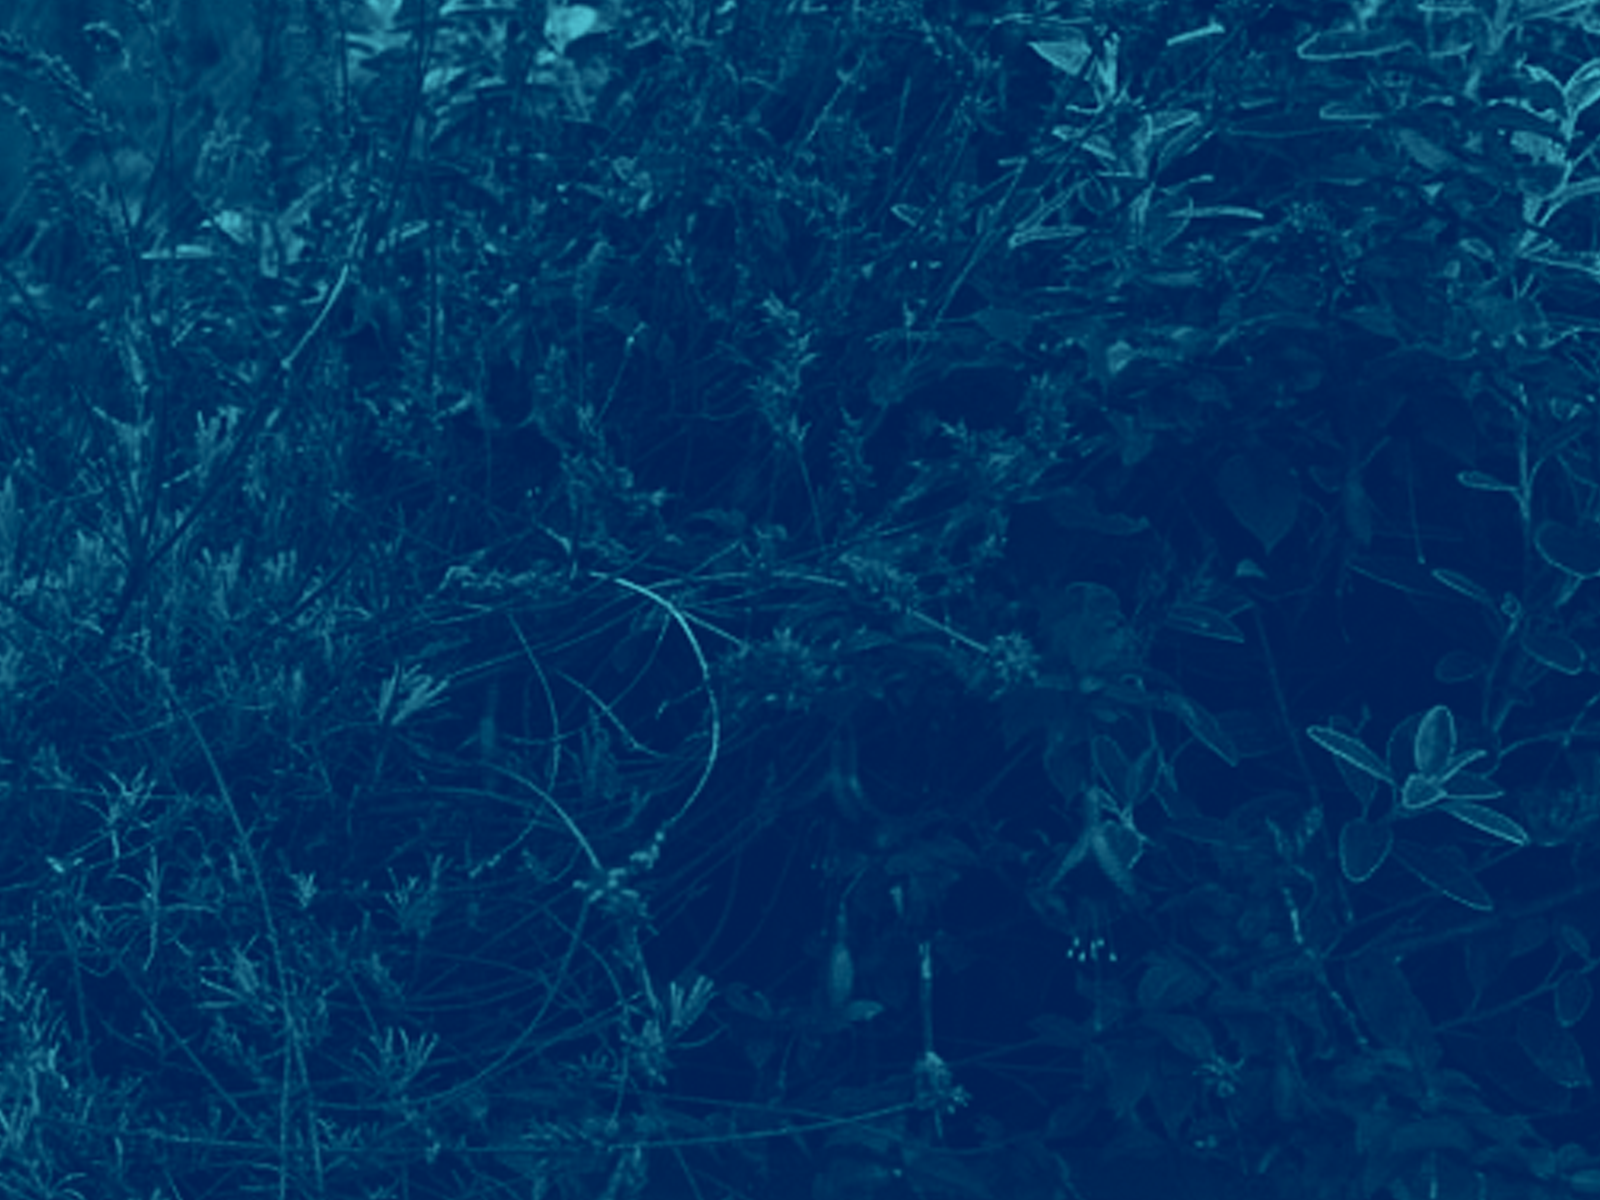
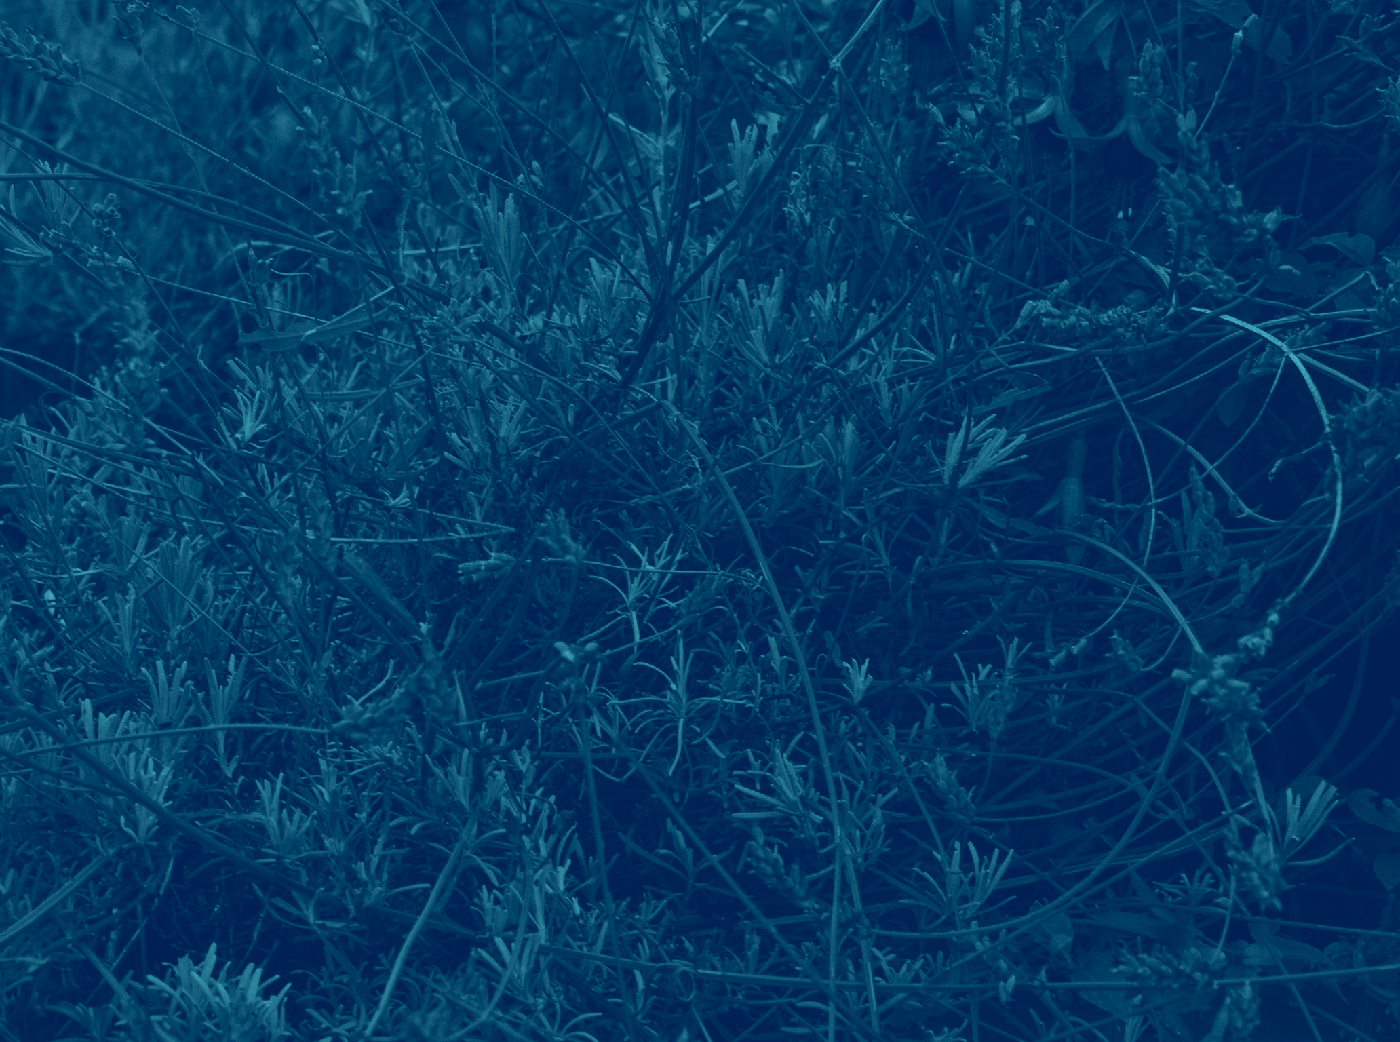
add - new background & MQ large background

diff --git a/build/css/main.min.css b/build/css/main.min.css
@@ -1,1 +1,1 @@
-a,abbr,acronym,address,applet,article,aside,audio,b,big,blockquote,body,canvas,caption,center,cite,code,dd,del,details,dfn,div,dl,dt,em,embed,fieldset,figcaption,figure,footer,form,h1,h2,h3,h4,h5,h6,header,hgroup,html,i,iframe,img,ins,kbd,label,legend,li,mark,menu,nav,object,ol,output,p,pre,q,ruby,s,samp,section,small,span,strike,strong,sub,summary,sup,table,tbody,td,tfoot,th,thead,time,tr,tt,u,ul,var,video{margin:0;padding:0;border:0;font-size:100%;vertical-align:baseline}article,aside,details,figcaption,figure,footer,header,hgroup,menu,nav,section{display:block}ol,ul{list-style:none}blockquote,q{quotes:none}blockquote:after,blockquote:before,q:after,q:before{content:'';content:none}table{border-collapse:collapse;border-spacing:0}.u-pointer:hover{cursor:pointer}@font-face{font-family:neue_droschke;src:url(fonts/neue_droschke-webfont.eot);src:url(fonts/neue_droschke-webfont.eot?#iefix) format('embedded-opentype'),url(fonts/neue_droschke-webfont.woff2) format('woff2'),url(fonts/neue_droschke-webfont.woff) format('woff'),url(fonts/neue_droschke-webfont.ttf) format('truetype'),url(fonts/neue_droschke-webfont.svg#neue_droschkehalbfett) format('svg');font-weight:400;font-style:normal}@font-face{font-family:geogrotesque-thin;src:url(fonts/geogrotesque-thin-webfont.eot);src:url(fonts/geogrotesque-thin-webfont.eot?#iefix) format('embedded-opentype'),url(fonts/geogrotesque-thin-webfont.woff2) format('woff2'),url(fonts/geogrotesque-thin-webfont.woff) format('woff'),url(fonts/geogrotesque-thin-webfont.ttf) format('truetype'),url(fonts/geogrotesque-thin-webfont.svg#neue_droschkehalbfett) format('svg');font-weight:400;font-style:normal}html{font-size:15px;line-height:1.4em;font-family:sans-serif;overflow-y:scroll}.font-neue{font-family:neue_droschke;letter-spacing:.06em}.font-geogrot{font-family:geogrotesque-thin}h1,h2,h3,h4,h5,h6{font-weight:400}h1{font-size:3.2em;line-height:1.2em}h2{font-size:2.2em;line-height:1.3em}.font-underline{border-bottom:5px solid #000;display:inline-block}.font-uppercase{text-transform:uppercase}h3{font-size:1.6em;line-height:1.4em}p{margin-bottom:1em}.font-align-left{text-align:left}.font-align-right{text-align:right}.font-align-center{text-align:center}a{color:inherit;text-decoration:none}.button-share{background-color:#7f8285;padding:3px 6px;display:inline-block;color:#fff}.container{max-width:1024px;margin:0 auto}.background{background-image:url(../img/UD_BG.png);background-position:center center;background-size:cover;color:#fff}#header{width:100%;height:100vh;position:relative;display:-webkit-box;display:-webkit-flex;display:-ms-flexbox;display:flex;-webkit-box-orient:vertical;-webkit-box-direction:normal;-webkit-flex-direction:column;-ms-flex-direction:column;flex-direction:column;-webkit-justify-content:space-around;-ms-flex-pack:distribute;justify-content:space-around;-webkit-box-align:center;-webkit-align-items:center;-ms-flex-align:center;align-items:center;margin-bottom:150px}#header:after{content:'\2B07';position:absolute;bottom:20px;width:100%;text-align:center;font-size:5em;line-height:1}#header .logo-audionetwork{max-width:200px;width:100%}#header-middle{max-width:80%;margin:0 auto;text-align:center}#logo-undiscovered-subheading{padding:.7em 1em;border:1px solid #fff;display:inline-block}#header-bottom{position:absolute;margin:0 20px;bottom:0;left:0;right:0;display:-webkit-box;display:-webkit-flex;display:-ms-flexbox;display:flex;-webkit-box-orient:horizontal;-webkit-box-direction:normal;-webkit-flex-direction:row;-ms-flex-direction:row;flex-direction:row;-webkit-flex-wrap:nowrap;-ms-flex-wrap:nowrap;flex-wrap:nowrap;-webkit-box-pack:justify;-webkit-justify-content:space-between;-ms-flex-pack:justify;justify-content:space-between;-webkit-box-align:center;-webkit-align-items:center;-ms-flex-align:center;align-items:center}#header-number{font-size:6em}#nav-main{display:-webkit-box;display:-webkit-flex;display:-ms-flexbox;display:flex;-webkit-box-pack:center;-webkit-justify-content:center;-ms-flex-pack:center;justify-content:center;width:100%;height:100px;position:fixed;top:0;background:rgba(255,255,255,.8);z-index:1;-webkit-transform:translateY(-100%);-ms-transform:translateY(-100%);transform:translateY(-100%);-webkit-transition:all 300ms;transition:all 300ms}#nav-main .logo-undiscovered{height:70px}#nav-main .logo-audionetwork{height:50px}#nav-main.show{-webkit-transform:translateY(0);-ms-transform:translateY(0);transform:translateY(0)}.nav-main-block{width:33.333%;box-sizing:border-box;padding:12.5px}#nav-main-social{width:160px;float:right}.mail-signup{box-sizing:border-box;padding:4px;border:2px solid #7f8285;margin-top:4px}#nav-scroll{z-index:999;position:fixed;right:20px;top:30%;font-size:1em}#nav-scroll li{padding:.5em 0;text-align:center}#nav-scroll li.scroll-arrow{font-size:.5em}#nav-scroll li.active{color:#fbc61f}.artist{display:-webkit-box;display:-webkit-flex;display:-ms-flexbox;display:flex;position:relative;box-sizing:border-box;padding:60px 0 80px}.artist:nth-child(even){-webkit-box-orient:horizontal;-webkit-box-direction:reverse;-webkit-flex-direction:row-reverse;-ms-flex-direction:row-reverse;flex-direction:row-reverse}.artist:nth-child(even) .artist-about{padding:0 108px 0 12px}.artist-picture{position:absolute;top:0;right:0;z-index:-1;max-width:100%}.artist:nth-child(even) .artist-picture{left:0}.artist-about,.artist-music{box-sizing:border-box}.artist-about{max-width:44.4%;padding:0 12px 0 108px}.artist-header{text-align:center;margin-bottom:2em}.artist-read-more{display:block;text-align:right;font-size:1.1em;text-decoration:underline}.artist-read-more::after{content:"\2192";margin-left:.5em;text-decoration:none}.artist-music{max-width:55.6%;padding:0 40px;display:-webkit-box;display:-webkit-flex;display:-ms-flexbox;display:flex;-webkit-flex-flow:column wrap;-ms-flex-flow:column wrap;flex-flow:column wrap;-webkit-box-pack:end;-webkit-justify-content:flex-end;-ms-flex-pack:end;justify-content:flex-end}.artist-quote{text-align:center}.artist-quote:before{content:'"';display:block;font-size:3.2em;line-height:.1em}.artist-quote:after{content:'"';display:block;font-size:3.2em;line-height:1.1em}.artist-song{background:#002d59;padding:15px 25px;display:-webkit-box;display:-webkit-flex;display:-ms-flexbox;display:flex;-webkit-flex-flow:row;-ms-flex-flow:row;flex-flow:row;-webkit-flex-wrap:nowrap;-ms-flex-wrap:nowrap;flex-wrap:nowrap}.artist-song audio{display:none}.artist-song.playing .player-control{background-position-y:100%}.artist-song.playing h4:before{display:none}.artist-song h4{color:#fff;font-size:2.5em;line-height:1.2;overflow:hidden;white-space:nowrap;position:relative;width:100%}.artist-song h4:before{display:block;background:#002d59;content:'Play Featured Track';position:absolute;top:0;left:0;width:100%;height:100%}.player-control{min-width:27px;height:43px;background:url(../img/player_sprite.png);-webkit-transition:all 200ms;transition:all 200ms;margin-right:10px}#footer{box-sizing:border-box;padding-top:150px}#footer .container{max-width:860px;padding:0 20px}#more-undiscovered li{max-width:45%}#more-undiscovered img{max-width:100%;margin-bottom:30px}@media only screen and (min-width:840px){#more-undiscovered img{max-width:192px}}#more-undiscovered{list-style:none;display:-webkit-box;display:-webkit-flex;display:-ms-flexbox;display:flex;-webkit-flex-flow:row wrap;-ms-flex-flow:row wrap;flex-flow:row wrap;-webkit-justify-content:space-around;-ms-flex-pack:distribute;justify-content:space-around}#footer-content{font-size:.9rem;max-width:680px;margin:0 auto;display:-webkit-box;display:-webkit-flex;display:-ms-flexbox;display:flex;border-top:2px solid #fff;padding:35px 0;-webkit-flex-wrap:wrap;-ms-flex-wrap:wrap;flex-wrap:wrap;-webkit-box-pack:justify;-webkit-justify-content:space-between;-ms-flex-pack:justify;justify-content:space-between}@media only screen and (min-width:840px){#footer-content{-webkit-flex-wrap:nowrap;-ms-flex-wrap:nowrap;flex-wrap:nowrap}}#footer-content>*{max-width:100%}@media only screen and (min-width:840px){#footer-content>*{max-width:48%}}#footer-contact{padding:10px 15px;text-align:center;box-sizing:border-box;border:1px solid #fff}#footer-contact h3{font-size:2.6em;border-bottom:2px solid #fff;margin-bottom:15px;padding-bottom:5px}@media only screen and (max-width:1024px){html{font-size:14px}}@media only screen and (max-width:600px){#nav-scroll{display:none}#header-number{font-size:4em}.logo-audionetwork{max-width:140px}.artist{-webkit-box-orient:vertical!important;-webkit-box-direction:normal!important;-webkit-flex-direction:column!important;-ms-flex-direction:column!important;flex-direction:column!important;padding:0}.artist-picture{display:block;position:relative;height:auto;padding-bottom:25px}.artist-about{max-width:100%!important;padding:0!important;margin:0 auto!important;width:90%!important}.artist-music{display:block;max-width:100%;width:90%;padding:0;margin:0 auto 25px;text-align:center}.artist-quote{display:none}}
+a,abbr,acronym,address,applet,article,aside,audio,b,big,blockquote,body,canvas,caption,center,cite,code,dd,del,details,dfn,div,dl,dt,em,embed,fieldset,figcaption,figure,footer,form,h1,h2,h3,h4,h5,h6,header,hgroup,html,i,iframe,img,ins,kbd,label,legend,li,mark,menu,nav,object,ol,output,p,pre,q,ruby,s,samp,section,small,span,strike,strong,sub,summary,sup,table,tbody,td,tfoot,th,thead,time,tr,tt,u,ul,var,video{margin:0;padding:0;border:0;font-size:100%;vertical-align:baseline}article,aside,details,figcaption,figure,footer,header,hgroup,menu,nav,section{display:block}ol,ul{list-style:none}blockquote,q{quotes:none}blockquote:after,blockquote:before,q:after,q:before{content:'';content:none}table{border-collapse:collapse;border-spacing:0}.u-pointer:hover{cursor:pointer}@font-face{font-family:neue_droschke;src:url(fonts/neue_droschke-webfont.eot);src:url(fonts/neue_droschke-webfont.eot?#iefix) format('embedded-opentype'),url(fonts/neue_droschke-webfont.woff2) format('woff2'),url(fonts/neue_droschke-webfont.woff) format('woff'),url(fonts/neue_droschke-webfont.ttf) format('truetype'),url(fonts/neue_droschke-webfont.svg#neue_droschkehalbfett) format('svg');font-weight:400;font-style:normal}@font-face{font-family:geogrotesque-thin;src:url(fonts/geogrotesque-thin-webfont.eot);src:url(fonts/geogrotesque-thin-webfont.eot?#iefix) format('embedded-opentype'),url(fonts/geogrotesque-thin-webfont.woff2) format('woff2'),url(fonts/geogrotesque-thin-webfont.woff) format('woff'),url(fonts/geogrotesque-thin-webfont.ttf) format('truetype'),url(fonts/geogrotesque-thin-webfont.svg#neue_droschkehalbfett) format('svg');font-weight:400;font-style:normal}html{font-size:15px;line-height:1.4em;font-family:sans-serif;overflow-y:scroll}.font-neue{font-family:neue_droschke;letter-spacing:.06em}.font-geogrot{font-family:geogrotesque-thin}h1,h2,h3,h4,h5,h6{font-weight:400}h1{font-size:3.2em;line-height:1.2em}h2{font-size:2.2em;line-height:1.3em}.font-underline{border-bottom:5px solid #000;display:inline-block}.font-uppercase{text-transform:uppercase}h3{font-size:1.6em;line-height:1.4em}p{margin-bottom:1em}.font-align-left{text-align:left}.font-align-right{text-align:right}.font-align-center{text-align:center}a{color:inherit;text-decoration:none}.button-share{background-color:#7f8285;padding:3px 6px;display:inline-block;color:#fff}.container{max-width:1024px;margin:0 auto}.background{background-image:url(../img/UD_BG.png);background-position:center center;background-size:cover;color:#fff}#header{width:100%;height:100vh;position:relative;display:-webkit-box;display:-webkit-flex;display:-ms-flexbox;display:flex;-webkit-box-orient:vertical;-webkit-box-direction:normal;-webkit-flex-direction:column;-ms-flex-direction:column;flex-direction:column;-webkit-justify-content:space-around;-ms-flex-pack:distribute;justify-content:space-around;-webkit-box-align:center;-webkit-align-items:center;-ms-flex-align:center;align-items:center;margin-bottom:150px}#header:after{content:'\2B07';position:absolute;bottom:20px;width:100%;text-align:center;font-size:5em;line-height:1}#header .logo-audionetwork{max-width:200px;width:100%}#header-middle{max-width:80%;margin:0 auto;text-align:center}#logo-undiscovered-subheading{padding:.7em 1em;border:1px solid #fff;display:inline-block}#header-bottom{position:absolute;margin:0 20px;bottom:0;left:0;right:0;display:-webkit-box;display:-webkit-flex;display:-ms-flexbox;display:flex;-webkit-box-orient:horizontal;-webkit-box-direction:normal;-webkit-flex-direction:row;-ms-flex-direction:row;flex-direction:row;-webkit-flex-wrap:nowrap;-ms-flex-wrap:nowrap;flex-wrap:nowrap;-webkit-box-pack:justify;-webkit-justify-content:space-between;-ms-flex-pack:justify;justify-content:space-between;-webkit-box-align:center;-webkit-align-items:center;-ms-flex-align:center;align-items:center}#header-number{font-size:6em}#nav-main{display:-webkit-box;display:-webkit-flex;display:-ms-flexbox;display:flex;-webkit-box-pack:center;-webkit-justify-content:center;-ms-flex-pack:center;justify-content:center;width:100%;height:100px;position:fixed;top:0;background:rgba(255,255,255,.8);z-index:1;-webkit-transform:translateY(-100%);-ms-transform:translateY(-100%);transform:translateY(-100%);-webkit-transition:all 300ms;transition:all 300ms}#nav-main .logo-undiscovered{height:70px}#nav-main .logo-audionetwork{height:50px}#nav-main.show{-webkit-transform:translateY(0);-ms-transform:translateY(0);transform:translateY(0)}.nav-main-block{width:33.333%;box-sizing:border-box;padding:12.5px}#nav-main-social{width:160px;float:right}.mail-signup{box-sizing:border-box;padding:4px;border:2px solid #7f8285;margin-top:4px}#nav-scroll{z-index:999;position:fixed;right:20px;top:30%;font-size:1em}#nav-scroll li{padding:.5em 0;text-align:center}#nav-scroll li.scroll-arrow{font-size:.5em}#nav-scroll li.active{color:#fbc61f}.artist{display:-webkit-box;display:-webkit-flex;display:-ms-flexbox;display:flex;position:relative;box-sizing:border-box;padding:60px 0 80px}.artist:nth-child(even){-webkit-box-orient:horizontal;-webkit-box-direction:reverse;-webkit-flex-direction:row-reverse;-ms-flex-direction:row-reverse;flex-direction:row-reverse}.artist:nth-child(even) .artist-about{padding:0 108px 0 12px}.artist-picture{position:absolute;top:0;right:0;z-index:-1;max-width:100%}.artist:nth-child(even) .artist-picture{left:0}.artist-about,.artist-music{box-sizing:border-box}.artist-about{max-width:44.4%;padding:0 12px 0 108px}.artist-header{text-align:center;margin-bottom:2em}.artist-read-more{display:block;text-align:right;font-size:1.1em;text-decoration:underline}.artist-read-more::after{content:"\2192";margin-left:.5em;text-decoration:none}.artist-music{max-width:55.6%;padding:0 40px;display:-webkit-box;display:-webkit-flex;display:-ms-flexbox;display:flex;-webkit-flex-flow:column wrap;-ms-flex-flow:column wrap;flex-flow:column wrap;-webkit-box-pack:end;-webkit-justify-content:flex-end;-ms-flex-pack:end;justify-content:flex-end}.artist-quote{text-align:center}.artist-quote:before{content:'"';display:block;font-size:3.2em;line-height:.1em}.artist-quote:after{content:'"';display:block;font-size:3.2em;line-height:1.1em}.artist-song{background:#002d59;padding:15px 25px;display:-webkit-box;display:-webkit-flex;display:-ms-flexbox;display:flex;-webkit-flex-flow:row;-ms-flex-flow:row;flex-flow:row;-webkit-flex-wrap:nowrap;-ms-flex-wrap:nowrap;flex-wrap:nowrap}.artist-song audio{display:none}.artist-song.playing .player-control{background-position-y:100%}.artist-song.playing h4:before{display:none}.artist-song h4{color:#fff;font-size:2.5em;line-height:1.2;overflow:hidden;white-space:nowrap;position:relative;width:100%}.artist-song h4:before{display:block;background:#002d59;content:'Play Featured Track';position:absolute;top:0;left:0;width:100%;height:100%}.player-control{min-width:27px;height:43px;background:url(../img/player_sprite.png);-webkit-transition:all 200ms;transition:all 200ms;margin-right:10px}#footer{box-sizing:border-box;padding-top:150px}#footer .container{max-width:860px;padding:0 20px}#more-undiscovered li{max-width:45%}#more-undiscovered img{max-width:100%;margin-bottom:30px}@media only screen and (min-width:840px){#more-undiscovered img{max-width:192px}}#more-undiscovered{list-style:none;display:-webkit-box;display:-webkit-flex;display:-ms-flexbox;display:flex;-webkit-flex-flow:row wrap;-ms-flex-flow:row wrap;flex-flow:row wrap;-webkit-justify-content:space-around;-ms-flex-pack:distribute;justify-content:space-around}#footer-content{font-size:.9rem;max-width:680px;margin:0 auto;display:-webkit-box;display:-webkit-flex;display:-ms-flexbox;display:flex;border-top:2px solid #fff;padding:35px 0;-webkit-flex-wrap:wrap;-ms-flex-wrap:wrap;flex-wrap:wrap;-webkit-box-pack:justify;-webkit-justify-content:space-between;-ms-flex-pack:justify;justify-content:space-between}@media only screen and (min-width:840px){#footer-content{-webkit-flex-wrap:nowrap;-ms-flex-wrap:nowrap;flex-wrap:nowrap}}#footer-content>*{max-width:100%}@media only screen and (min-width:840px){#footer-content>*{max-width:48%}}#footer-contact{padding:10px 15px;text-align:center;box-sizing:border-box;border:1px solid #fff}#footer-contact h3{font-size:2.6em;border-bottom:2px solid #fff;margin-bottom:15px;padding-bottom:5px}@media only screen and (min-width:1400px){.background{background-image:url(../img/UD_BG_large.png)}}@media only screen and (max-width:1024px){html{font-size:14px}}@media only screen and (max-width:600px){#nav-scroll{display:none}#header-number{font-size:4em}.logo-audionetwork{max-width:140px}.artist{-webkit-box-orient:vertical!important;-webkit-box-direction:normal!important;-webkit-flex-direction:column!important;-ms-flex-direction:column!important;flex-direction:column!important;padding:0}.artist-picture{display:block;position:relative;height:auto;padding-bottom:25px}.artist-about{max-width:100%!important;padding:0!important;margin:0 auto!important;width:90%!important}.artist-music{display:block;max-width:100%;width:90%;padding:0;margin:0 auto 25px;text-align:center}.artist-quote{display:none}}

diff --git a/build/css/main.css b/build/css/main.css
@@ -555,6 +555,11 @@ a {
   margin-bottom: 15px;
   padding-bottom: 5px;
 }
+@media only screen and (min-width: 1400px) {
+  .background {
+    background-image: url("../img/UD_BG_large.png");
+  }
+}
 @media only screen and (max-width: 1024px) {
   html {
     font-size: 14px;
